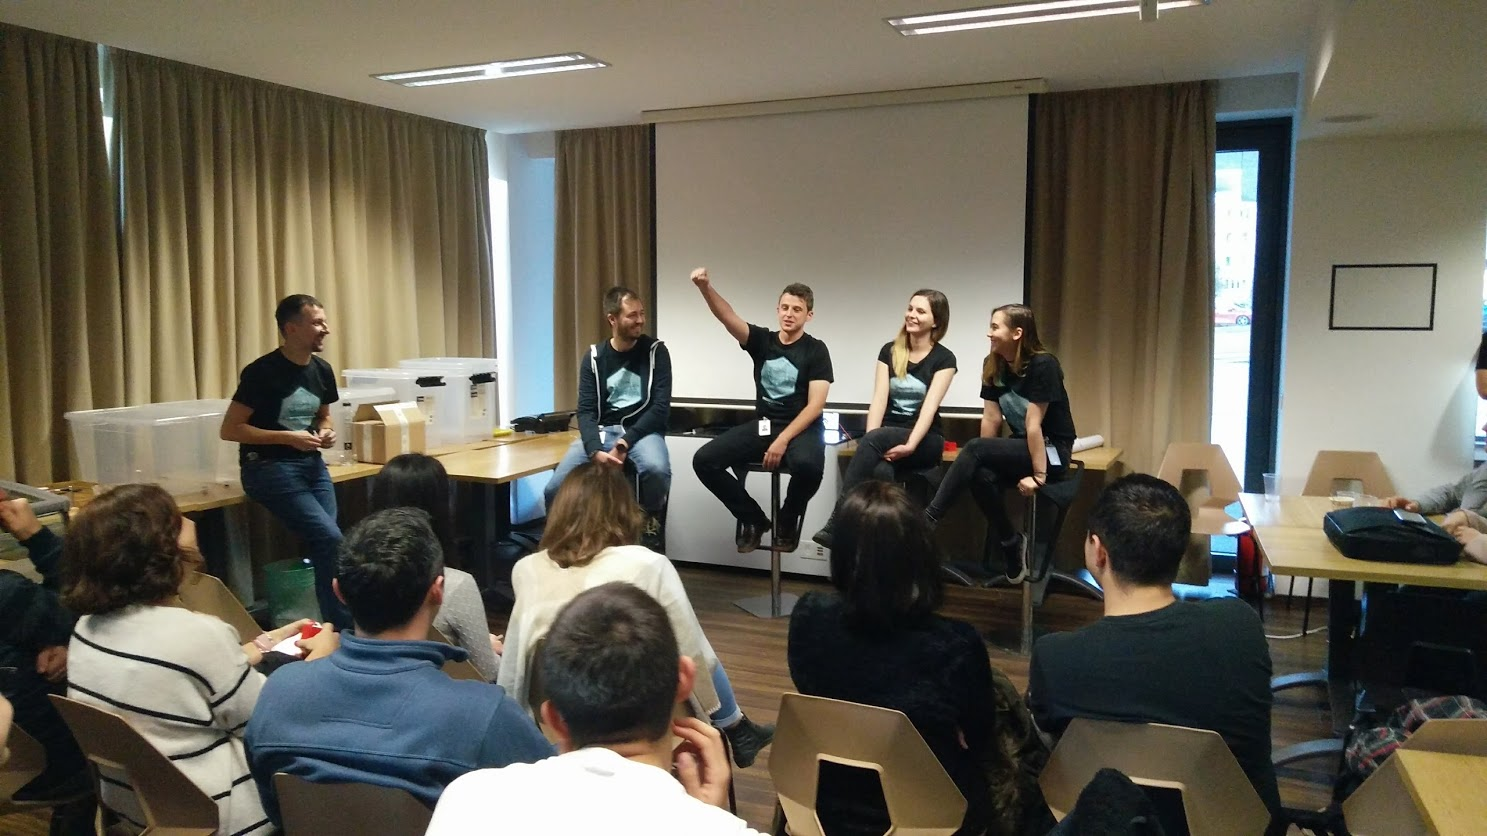
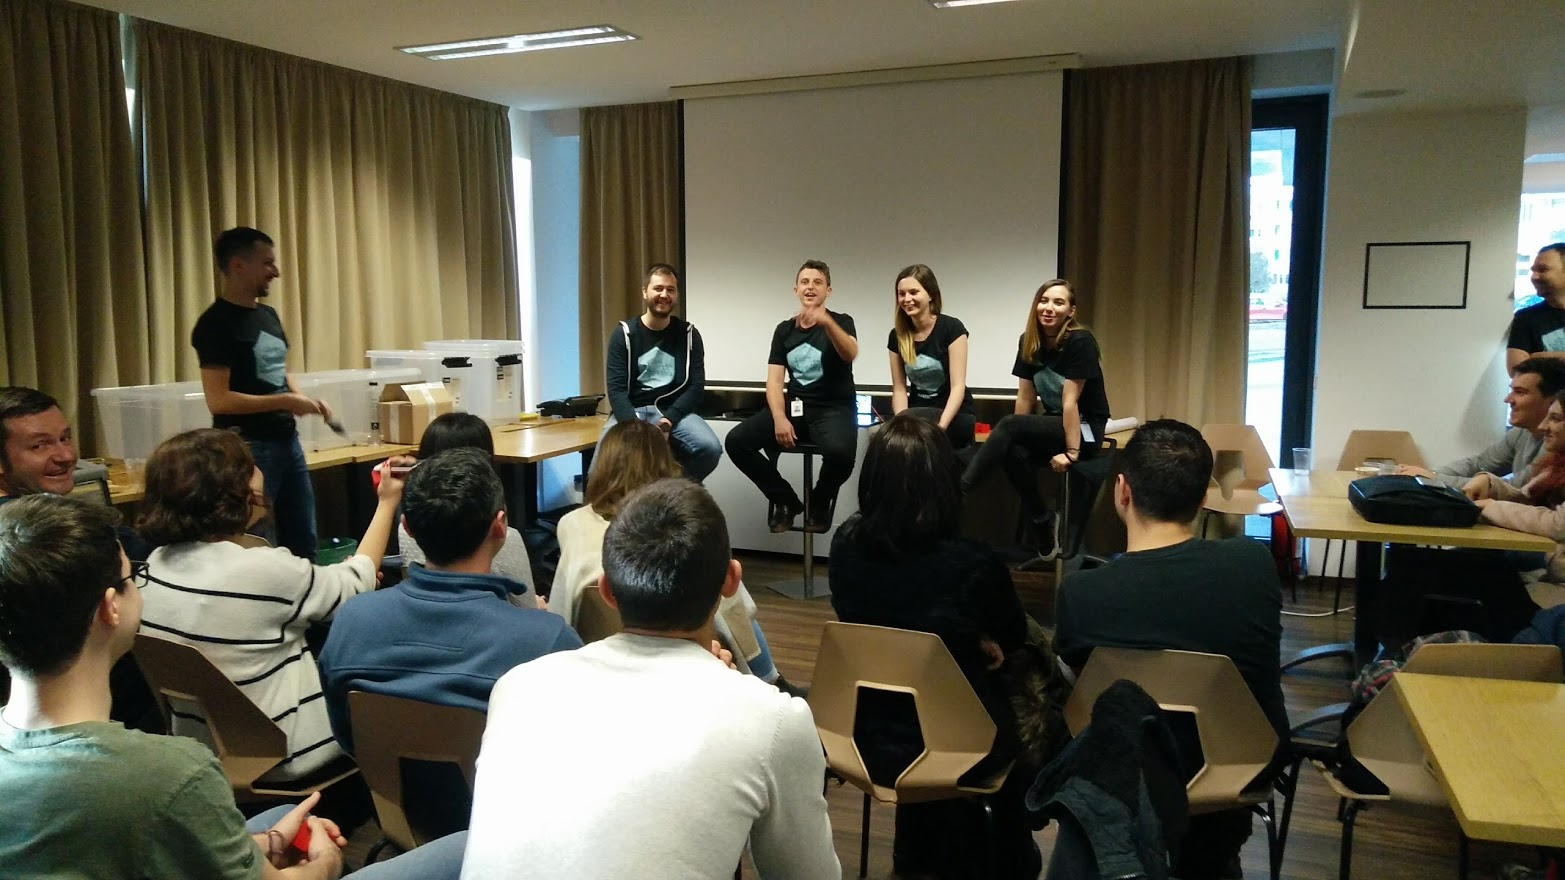
added gallery

diff --git a/gallery.html b/gallery.html
@@ -1,13 +1,57 @@
 <!DOCTYPE html>
 <html lang="en">
+
 <head>
     <meta charset="UTF-8">
     <meta name="viewport" content="width=device-width, initial-scale=1.0">
     <meta http-equiv="X-UA-Compatible" content="ie=edge">
+    <link rel="stylesheet" href="styles.css">
     <title>NodeSchool Gallery</title>
 </head>
+
 <body>
-    <img src="img1.jpg">
-    <img src="img2.jpg">
+    <div class="header">
+        <h1 class="title">NodeSchool Cluj</h1>
+        <h2 class="subtitle">Open source workshops that teach web software skills for
+            <span class="free-label">FREE</span>
+        </h2>
+        <img class="logo" src="node_school_logo.jpg" alt="NodeSchool Cluj logo">
+        <h3 class="register">New event comming soon!</h3>
+        <!-- <a target="_blank" class ="register-button" href="https://docs.google.com/forms/d/e/1FAIpQLSetzup0rViVlXC-IMsxKvQUeOmIn4h-Ta-gd8tacwOEg4wzaA/viewform"> Join us here! It's free</a> -->
+    </div>
+    <div class="gallery-content">
+        <img class="gallery-photos" src="img1.jpg">
+        <img class="gallery-photos" src="img2.jpg">
+        <img class="gallery-photos" src="img3.jpg">
+        <img class="gallery-photos" src="img4.jpg">
+        <img class="gallery-photos" src="img5.jpg">
+        <img class="gallery-photos" src="img6.jpg">
+
+    </div>
+    <div class="footer">
+        <div class="footer-item">
+            <div class="footer-title">Contact</div>
+            <div class="footer-content">
+                <a href="mailto:nodeschool.cluj@gmail.com">nodeschool.cluj@gmail.com</a>
+                <a target="_blank" href="https://nodeschool.io/cluj/">nodeschool.io/cluj</a>
+            </div>
+        </div>
+        <div class="footer-item">
+            <div class="footer-title">Questions? Want to help out?</div>
+            <div class="footer-content">
+                <p>Please open an issue on
+                    <a target="_blank" href="https://github.com/nodeschool/cluj">GitHub</a> and join the discussion.</p>
+            </div>
+        </div>
+        <div class="footer-item">
+            <div class="footer-title">Sponsored by</div>
+            <div class="footer-content">
+                <a target="_blank" href="https://www.fortech.ro/">
+                    <img src="fortechLogo.jpg" alt="Fortech logo" style="width:200px;height:40px">
+                </a>
+            </div>
+        </div>
+    </div>
 </body>
+
 </html>

diff --git a/styles.css b/styles.css
@@ -193,6 +193,37 @@ section:nth-child(odd) a:hover {
     position: absolute;
 }
 
+.gallery-photos {
+    width: 1000px;
+    display: block;
+    margin:20px 0;
+}
+
+.gallery-content {
+    display: flex;
+    flex-direction: column;
+    align-items: center;
+}
+
+.gallery-preview {
+    width: 270px;
+    border:1px solid transparent;
+}
+
+.gallery-preview:hover {
+    border:none;
+}
+
+section a.photo-link:hover {
+    border:none;
+}
+
+.gallery-preview-content a{
+    border:none;
+}
+
+
+
 @media only screen and (max-width: 900px) {
     .section-content {
         width: 80%;
@@ -267,5 +298,8 @@ section:nth-child(odd) a:hover {
 
     .map-responsive {
         padding-bottom: 60%;
+    }
+    .gallery-photos {
+        max-width: 80%;
     }
 }

diff --git a/index.html b/index.html
@@ -63,8 +63,10 @@
             </div>
         </section>
         <section>
-            <div class="section-content">
+            <div class="section-content gallery-preview-content">
                 <h1>Our last event</h1>
+                <a target="_blank" href="gallery.html" class="photo-link"><img class="gallery-preview" src="img1.jpg"></a>
+                <a target="_blank" href="gallery.html" class="photo-link"><img class="gallery-preview" src="img4.jpg"></a>
                 <p> Check out the photos from our last event <a target="_blank" href="gallery.html">here</a></p>
             </div>
         </section>
